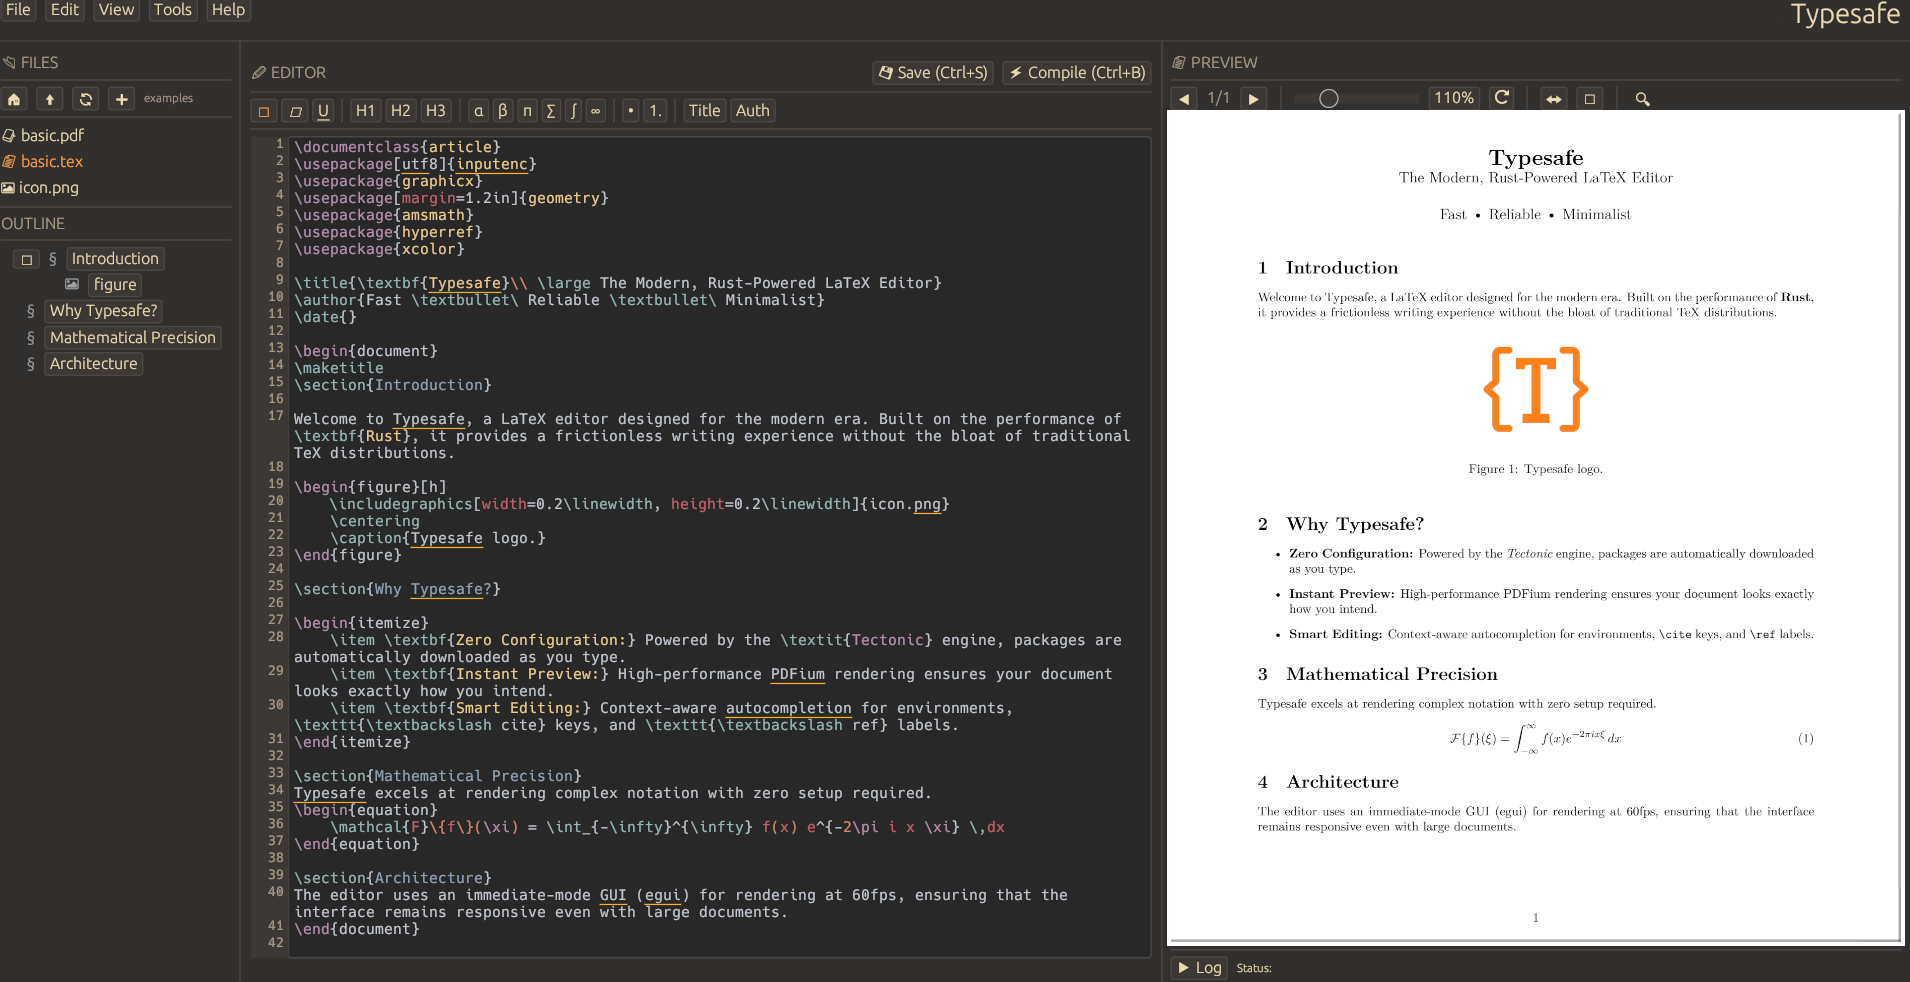
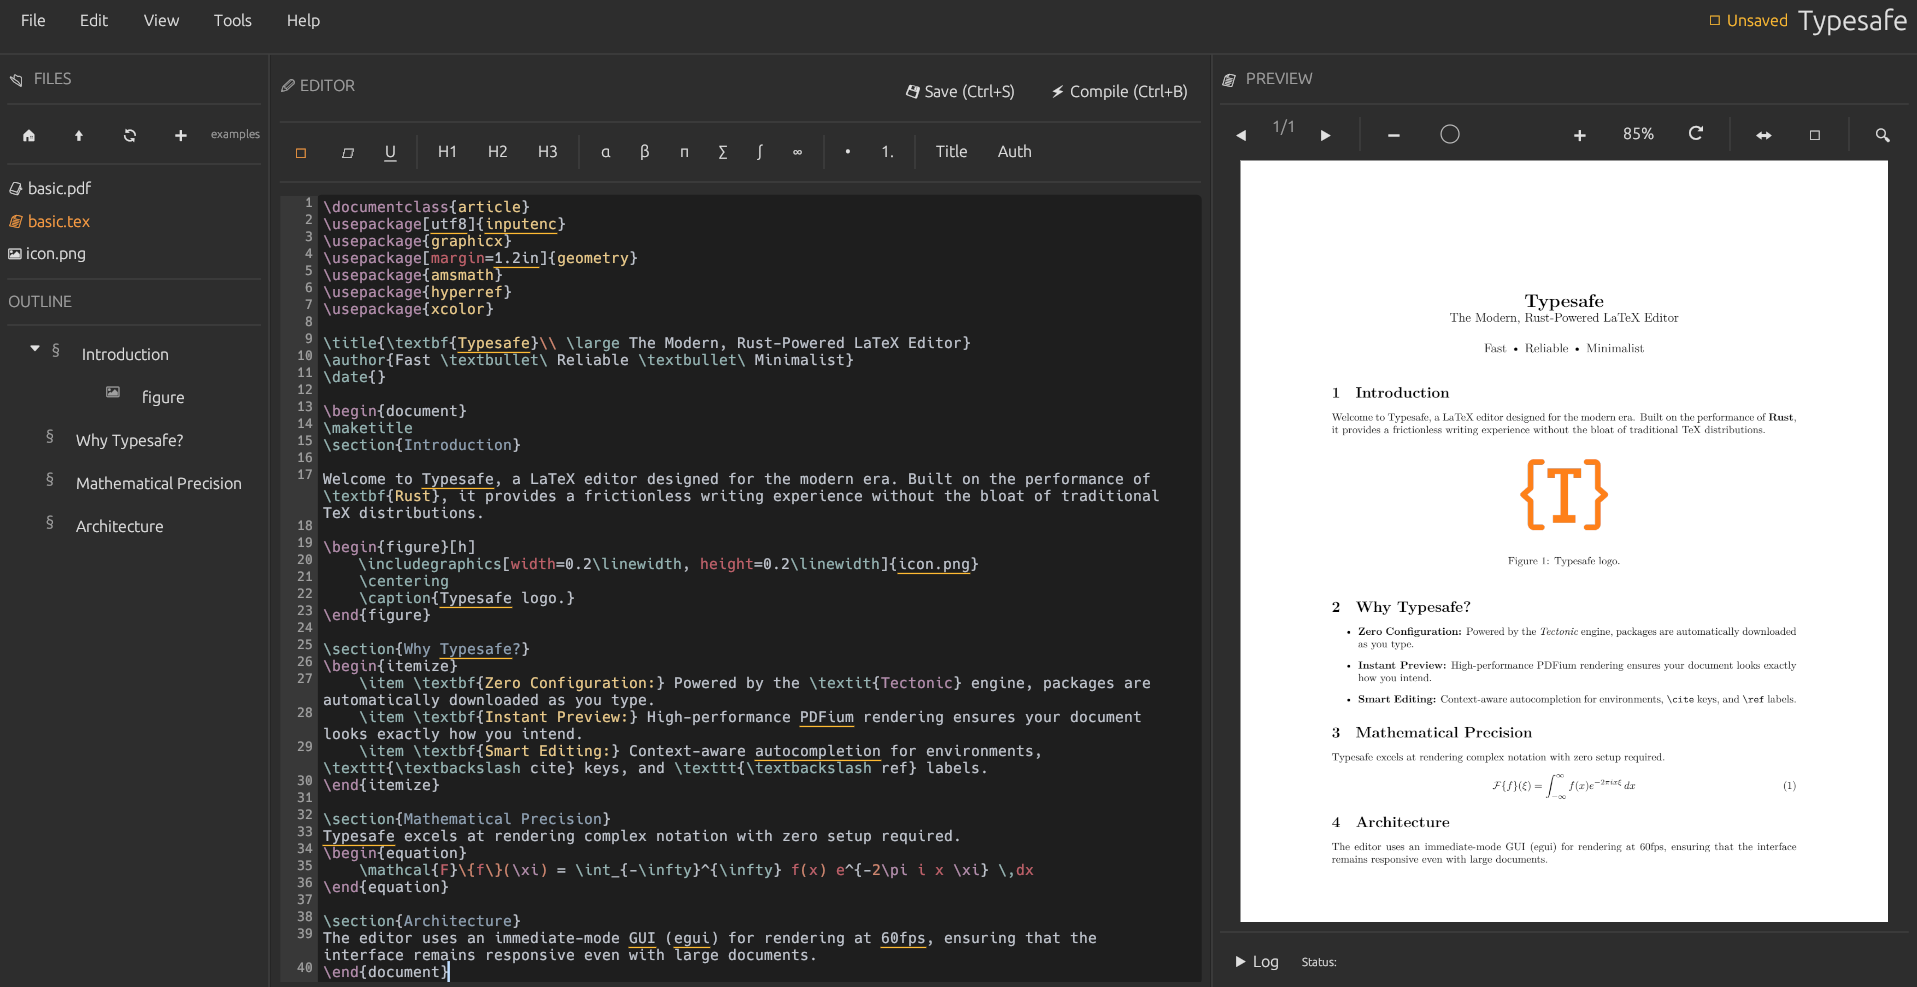
Better bits and buttons.

diff --git a/web/components/Hero.tsx b/web/components/Hero.tsx
@@ -42,7 +42,7 @@ const Hero: React.FC = () => {
       </div>
 
       <div className="mt-8 text-sm text-gruvbox-gray font-mono">
-        v0.3.0 • macOS, Linux, Windows
+        v0.3 • macOS, Linux, Windows
       </div>
     </div>
   );

diff --git a/src/main.rs b/src/main.rs
@@ -393,6 +393,8 @@ enum SettingsTab {
     Editor,
     Permissions,
     APIs,
+    About,
+    License,
 }
 
 #[derive(Clone, Serialize, Deserialize)]
@@ -419,7 +421,7 @@ fn default_true() -> bool { true }
 impl Default for Settings {
     fn default() -> Self {
         Self {
-            theme: ThemePreset::GruvboxDark,
+            theme: ThemePreset::Dark,
             accent: AccentColor::Orange,
             show_settings_window: false,
             active_tab: SettingsTab::Appearance,
@@ -590,6 +592,11 @@ struct TypesafeApp {
     last_save_time: f64,
     latex_commands: Vec<LatexItem>,
     latex_environments: Vec<LatexItem>,
+
+    // Documentation
+    readme_content: &'static str,
+    license_content: &'static str,
+    markdown_cache: egui_commonmark::CommonMarkCache,
 }
 
 impl Default for TypesafeApp {
@@ -794,7 +801,7 @@ impl Default for TypesafeApp {
             }
         }
 
-        Self {
+        let mut app = Self {
             editor_content: default_content,
             file_path: default_file,
             current_dir,
@@ -860,6 +867,9 @@ impl Default for TypesafeApp {
             completion_selected_index: 0,
             latex_commands: latex_data.commands,
             latex_environments: latex_data.environments,
+            readme_content: include_str!("../README.md"),
+            license_content: include_str!("../LICENSE"),
+            markdown_cache: egui_commonmark::CommonMarkCache::default(),
 
             show_search: false,
             search_query: String::new(),
@@ -869,7 +879,13 @@ impl Default for TypesafeApp {
             search_matches: Vec::new(),
             search_match_index: 0,
             last_save_time: 0.0,
+        };
+
+        if !app.file_path.is_empty() && !app.file_path.ends_with("untitled.tex") {
+            app.update_outline();
         }
+
+        app
     }
 }
 
@@ -895,20 +911,23 @@ impl TypesafeApp {
         };
 
         // Widget styling (Modern/Sleek)
-        visuals.widgets.noninteractive.rounding = Rounding::same(6.0);
-        visuals.widgets.inactive.rounding = Rounding::same(6.0);
-        visuals.widgets.hovered.rounding = Rounding::same(6.0);
-        visuals.widgets.active.rounding = Rounding::same(6.0);
-        visuals.widgets.open.rounding = Rounding::same(6.0);
+        visuals.widgets.noninteractive.rounding = Rounding::same(4.0);
+        visuals.widgets.inactive.rounding = Rounding::same(4.0);
+        visuals.widgets.hovered.rounding = Rounding::same(4.0);
+        visuals.widgets.active.rounding = Rounding::same(4.0);
+        visuals.widgets.open.rounding = Rounding::same(4.0);
 
         // Widget backgrounds
-        visuals.widgets.inactive.bg_fill = theme.bg_tertiary;
+        visuals.widgets.inactive.bg_fill = Color32::TRANSPARENT;
         visuals.widgets.inactive.bg_stroke = Stroke::NONE; // Cleaner look without borders on idle buttons
 
-        visuals.widgets.hovered.bg_fill = theme.bg_tertiary.linear_multiply(1.4);
+        // Use text color with low opacity for hover (works for both light and dark themes)
+        let mut hover_color = theme.text_primary;
+        hover_color = Color32::from_rgba_unmultiplied(hover_color.r(), hover_color.g(), hover_color.b(), 25);
+        visuals.widgets.hovered.bg_fill = hover_color;
         visuals.widgets.hovered.bg_stroke = Stroke::NONE;
         visuals.widgets.hovered.fg_stroke = Stroke::new(1.0, theme.text_primary);
-        visuals.widgets.hovered.expansion = 2.0; // Subtle grow effect
+        visuals.widgets.hovered.expansion = 1.0; // Subtle grow effect
 
         visuals.widgets.active.bg_fill = theme.accent.linear_multiply(0.2);
         visuals.widgets.active.bg_stroke = Stroke::new(1.0, theme.accent);
@@ -923,7 +942,7 @@ impl TypesafeApp {
         visuals.selection.stroke = Stroke::NONE;
 
         // Button styling
-        visuals.widgets.inactive.weak_bg_fill = theme.bg_tertiary;
+        visuals.widgets.inactive.weak_bg_fill = Color32::TRANSPARENT;
 
         // Separator
         visuals.widgets.noninteractive.bg_stroke = Stroke::new(1.0, theme.border);
@@ -2231,6 +2250,9 @@ impl eframe::App for TypesafeApp {
                     if ui.checkbox(&mut self.show_file_panel, "File Explorer").clicked() {
                         ui.close_menu();
                     }
+                    if ui.checkbox(&mut self.show_preview_panel, "PDF Preview").clicked() {
+                        ui.close_menu();
+                    }
                     if ui.checkbox(&mut self.show_log, "Compilation Log").clicked() {
                         ui.close_menu();
                     }
@@ -2284,7 +2306,13 @@ impl eframe::App for TypesafeApp {
                  // Help Menu
                 ui.menu_button("Help", |ui| {
                     if ui.button("About").clicked() {
-                        // Placeholder
+                        self.settings.active_tab = SettingsTab::About;
+                        self.settings.show_settings_window = true;
+                        ui.close_menu();
+                    }
+                    if ui.button("License").clicked() {
+                        self.settings.active_tab = SettingsTab::License;
+                        self.settings.show_settings_window = true;
                         ui.close_menu();
                     }
                 });
@@ -2328,6 +2356,8 @@ impl eframe::App for TypesafeApp {
                         ui.selectable_value(&mut self.settings.active_tab, SettingsTab::Editor, "Editor");
                         ui.selectable_value(&mut self.settings.active_tab, SettingsTab::Permissions, "Permissions");
                         ui.selectable_value(&mut self.settings.active_tab, SettingsTab::APIs, "APIs");
+                        ui.selectable_value(&mut self.settings.active_tab, SettingsTab::About, "About");
+                        ui.selectable_value(&mut self.settings.active_tab, SettingsTab::License, "License");
                     });
                     ui.separator();
 
@@ -2423,6 +2453,17 @@ impl eframe::App for TypesafeApp {
                                 self.compilation_log.push_str("To clear cache manually, delete the tectonic cache directory in your user folder.\n");
                                 self.show_log = true;
                             }
+                        },
+                        SettingsTab::About => {
+                            egui::ScrollArea::vertical().show(ui, |ui| {
+                                egui_commonmark::CommonMarkViewer::new("about_md_viewer")
+                                    .show(ui, &mut self.markdown_cache, self.readme_content);
+                            });
+                        },
+                        SettingsTab::License => {
+                            egui::ScrollArea::vertical().show(ui, |ui| {
+                                ui.label(egui::RichText::new(self.license_content).monospace());
+                            });
                         }
                     }
                 });

diff --git a/examples/basic.tex b/examples/basic.tex
@@ -23,7 +23,6 @@ Welcome to Typesafe, a LaTeX editor designed for the modern era. Built on the pe
 \end{figure}
 
 \section{Why Typesafe?}
-
 \begin{itemize}
     \item \textbf{Zero Configuration:} Powered by the \textit{Tectonic} engine, packages are automatically downloaded as you type.
     \item \textbf{Instant Preview:} High-performance PDFium rendering ensures your document looks exactly how you intend.
